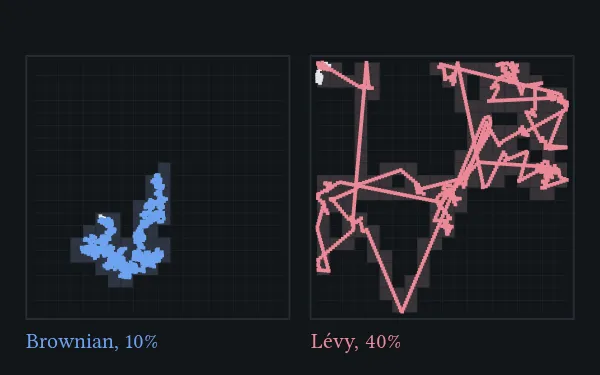
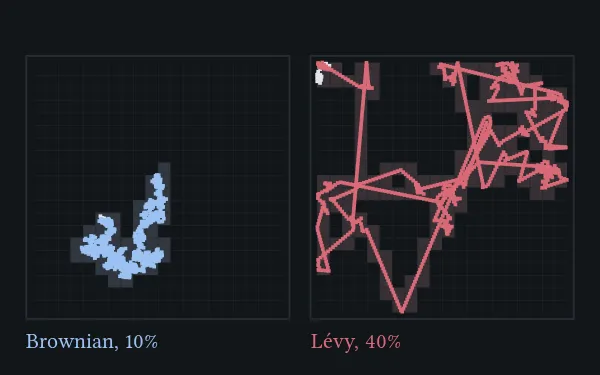
Colour refinements from critic rounds 12-13
Light paper a step lighter with less blue (#e2e4e8), tokens re-derived; dark carmine deepened to
#d96b78 so it reads red, not pink. The About figure keeps to two accents plus ink: agents in link
blue, carmine and two inks; the LiDAR wave on one carmine-ink-blue range ramp; faint stars in
ink (Gaia BP-RP is noisy for them), and on paper the middle tier halfway to ink. Fig. 1 shows a
pointer on hover. Every text and code colour still at least 4.5:1.

diff --git a/src/lib/about-scene/scene.js b/src/lib/about-scene/scene.js
@@ -50,12 +50,16 @@ export function mountScene(fig) {
     // 21..45: star colours from Gaia BP-RP (hot blue to cool red), each at five brightnesses by G.
     const rgbOf = h => `rgb(${h.join()})`, over = (c, a) => rgbOf(c.map((v, k) => Math.round(v * a + hex(css.getPropertyValue('--bg'), '121519')[k] * (1 - a))));
     const STAR = light ? [[47, 95, 174], [58, 53, 46], [154, 106, 20], [176, 86, 30], [168, 50, 42]] : [[169, 196, 255], [242, 239, 230], [255, 217, 154], [255, 176, 112], [255, 128, 96]];
-    for (const c of STAR) for (const a of [0.32, 0.46, 0.62, 0.8, 1]) COL.push(over(c, a));
+    const inkS = mixc(1); // on paper the G 15.5-17.5 tier goes halfway to ink, so faint colour does not read as specks
+    for (const c of STAR) for (const a of [0.32, 0.46, 0.62, 0.8, 1]) COL.push(over(light && a === 0.62 ? c.map((v, k) => Math.round((v + inkS[k]) / 2)) : c, a));
     // 46..50: LiDAR returns by range, near (warm) to far (cool), as point-cloud viewers colour them.
-    const RANGE = light ? [[176, 71, 42], [166, 114, 26], [90, 85, 76], [59, 106, 168], [42, 79, 154]] : [[255, 138, 92], [244, 184, 96], [232, 226, 200], [143, 192, 232], [106, 143, 216]];
-    for (const c of RANGE) COL.push(rgbOf(c));
+    // One ramp, carmine (near) through ink to the link blue (far), so it reads as depth, not as patches.
+    const acc = hex(css.getPropertyValue('--accent'), 'd96b78'), lnk = hex(css.getPropertyValue('--link'), '9cc2f2'), inkc = mixc(light ? 0.85 : 0.8);
+    const lerp = (a, b, w) => a.map((v, k) => Math.round(v + (b[k] - v) * w));
+    for (const w of [0, 0.5, 1, 1.5, 2]) COL.push(rgbOf(w <= 1 ? lerp(acc, inkc, w) : lerp(inkc, lnk, w - 1)));
     // 51..54: one colour per agent (and per walker: 51 Brownian, 52 Levy).
-    const CAT = light ? [[42, 90, 168], [156, 36, 56], [47, 122, 82], [154, 106, 20]] : [[111, 163, 240], [236, 138, 152], [108, 199, 154], [227, 178, 90]]; // the second in the carmine accent
+    // Walker or agent 1 in the link blue, 2 in carmine; agents 3 and 4 in ink, full and lighter.
+    const CAT = [lnk, acc, mixc(1), mixc(0.55)];
     for (const c of CAT) COL.push(rgbOf(c));
     CATC = CAT.map(rgbOf);
     OUT_B = light ? 3 : 5; // coastlines: on paper, full ink would outweigh the data points
@@ -90,7 +94,7 @@ export function mountScene(fig) {
       st.sz[e] = Math.max(1, 5 - (G - 10) * 0.42);
       const lv = G < 13 ? 4 : G < 15.5 ? 3 : G < 17.5 ? 2 : G < 19 ? 1 : 0, c = sc[k] === 255 ? 0.8 : sc[k] / 254 * 4.5 - 0.5;
       const hue = c < 0.5 ? 0 : c < 1 ? 1 : c < 1.5 ? 2 : c < 2.2 ? 3 : 4; // BP-RP bins: hot to cool
-      st.cb[e] = e === 0 ? 6 : 21 + hue * 5 + lv;
+      st.cb[e] = e === 0 ? 6 : G >= 17.5 ? lv + 1 : 21 + hue * 5 + lv; // faint stars in ink: Gaia's BP-RP is noisy for them
     }
     st.sz[0] = 3;
     // ---- geoid (real, EGM2008), on a Fibonacci sphere matching tools/prep.py

diff --git a/src/app.css b/src/app.css
@@ -7,7 +7,7 @@
 @font-face { font-family: 'NCM Mono Web'; src: url('/fonts/ncm-mono.woff2') format('woff2'); font-weight: 400; font-style: normal; font-display: swap; }
 
 :root {
-	--bg: #121519; --ink: #e4e7ec; --muted: #9ba2ad; --link: #9cc2f2; --accent: #ec8a98; --line: #272c33;
+	--bg: #121519; --ink: #e4e7ec; --muted: #9ba2ad; --link: #9cc2f2; --accent: #d96b78; --line: #272c33;
 	--matte: #0c0f13; --frame: #0c0f13; --code: #181c21; --lat: #353d47; --latmaj: #4f5966; --path: var(--link); --home: var(--ink);
 	/* Code colours, each at least 4.5:1 on --code. */
 	--c-keyword: #9cc2f2; --c-string: #a9cf8f; --c-number: #ef9ba6; --c-type: #c9abec; --c-function: #86cfe0; --c-comment: #959ca7;
@@ -27,14 +27,14 @@
    colours on --code. */
 @media (prefers-color-scheme: light) {
 	:root:not([data-theme='dark']) {
-		--bg: #dde2e8; --ink: #1b2230; --muted: #4f5868; --link: #1d4a93; --accent: #9c2438; --line: #c4cad2; --frame: #d1d6dd;
-		--code: #d3d8df; --lat: #bfc5cd; --latmaj: #a1a8b2;
+		--bg: #e2e4e8; --ink: #1b2230; --muted: #4f5868; --link: #1d4a93; --accent: #9c2438; --line: #c8cbd0; --frame: #d3d5da;
+		--code: #d6d8dd; --lat: #c2c5cb; --latmaj: #a6aab1;
 		color-scheme: light;
 	}
 }
 :root[data-theme='light'] {
-	--bg: #dde2e8; --ink: #1b2230; --muted: #4f5868; --link: #1d4a93; --accent: #9c2438; --line: #c4cad2; --frame: #d1d6dd;
-	--code: #d3d8df; --lat: #bfc5cd; --latmaj: #a1a8b2;
+	--bg: #e2e4e8; --ink: #1b2230; --muted: #4f5868; --link: #1d4a93; --accent: #9c2438; --line: #c8cbd0; --frame: #d3d5da;
+	--code: #d6d8dd; --lat: #c2c5cb; --latmaj: #a6aab1;
 	color-scheme: light;
 }
 
@@ -80,7 +80,7 @@ footer.site a { color: var(--muted); padding-block: 10px; }
 .intro.with-figure h1 { margin-top: 2.2em; } /* level with the figure's shoulders, not its head or its middle */
 .intro .background { color: var(--muted); font-size: inherit; max-width: 30em; margin-top: 18px; }
 .hello { margin: 0; max-width: 340px; justify-self: end; width: 100%; }
-.hello > a { display: block; position: relative; }
+.hello > a { display: block; position: relative; cursor: pointer; }
 .hello img, .hello canvas { display: block; width: 100%; height: auto; aspect-ratio: 3 / 4; }
 .hello canvas { position: absolute; inset: 0; height: 100%; visibility: hidden; }
 .hello.live canvas { visibility: visible; }

diff --git a/src/lib/utils/code-theme.ts b/src/lib/utils/code-theme.ts
@@ -1,11 +1,11 @@
 import type { ThemeRegistration } from 'shiki/core';
 
 // The light theme for code blocks: softer tones than an editor theme, more token kinds than the
-// CSS-variables theme, every colour at least 4.5:1 on the light code background (#d3d8df).
+// CSS-variables theme, every colour at least 4.5:1 on the light code background (#d6d8dd).
 export const siteLight: ThemeRegistration = {
 	name: 'site-light',
 	type: 'light',
-	colors: { 'editor.background': '#d3d8df', 'editor.foreground': '#1b2230' },
+	colors: { 'editor.background': '#d6d8dd', 'editor.foreground': '#1b2230' },
 	tokenColors: [
 		{ scope: ['comment', 'punctuation.definition.comment'], settings: { foreground: '#565d69', fontStyle: 'italic' } },
 		{ scope: ['keyword', 'storage.type', 'storage.modifier', 'keyword.control', 'keyword.other'], settings: { foreground: '#6a2f8e' } },
